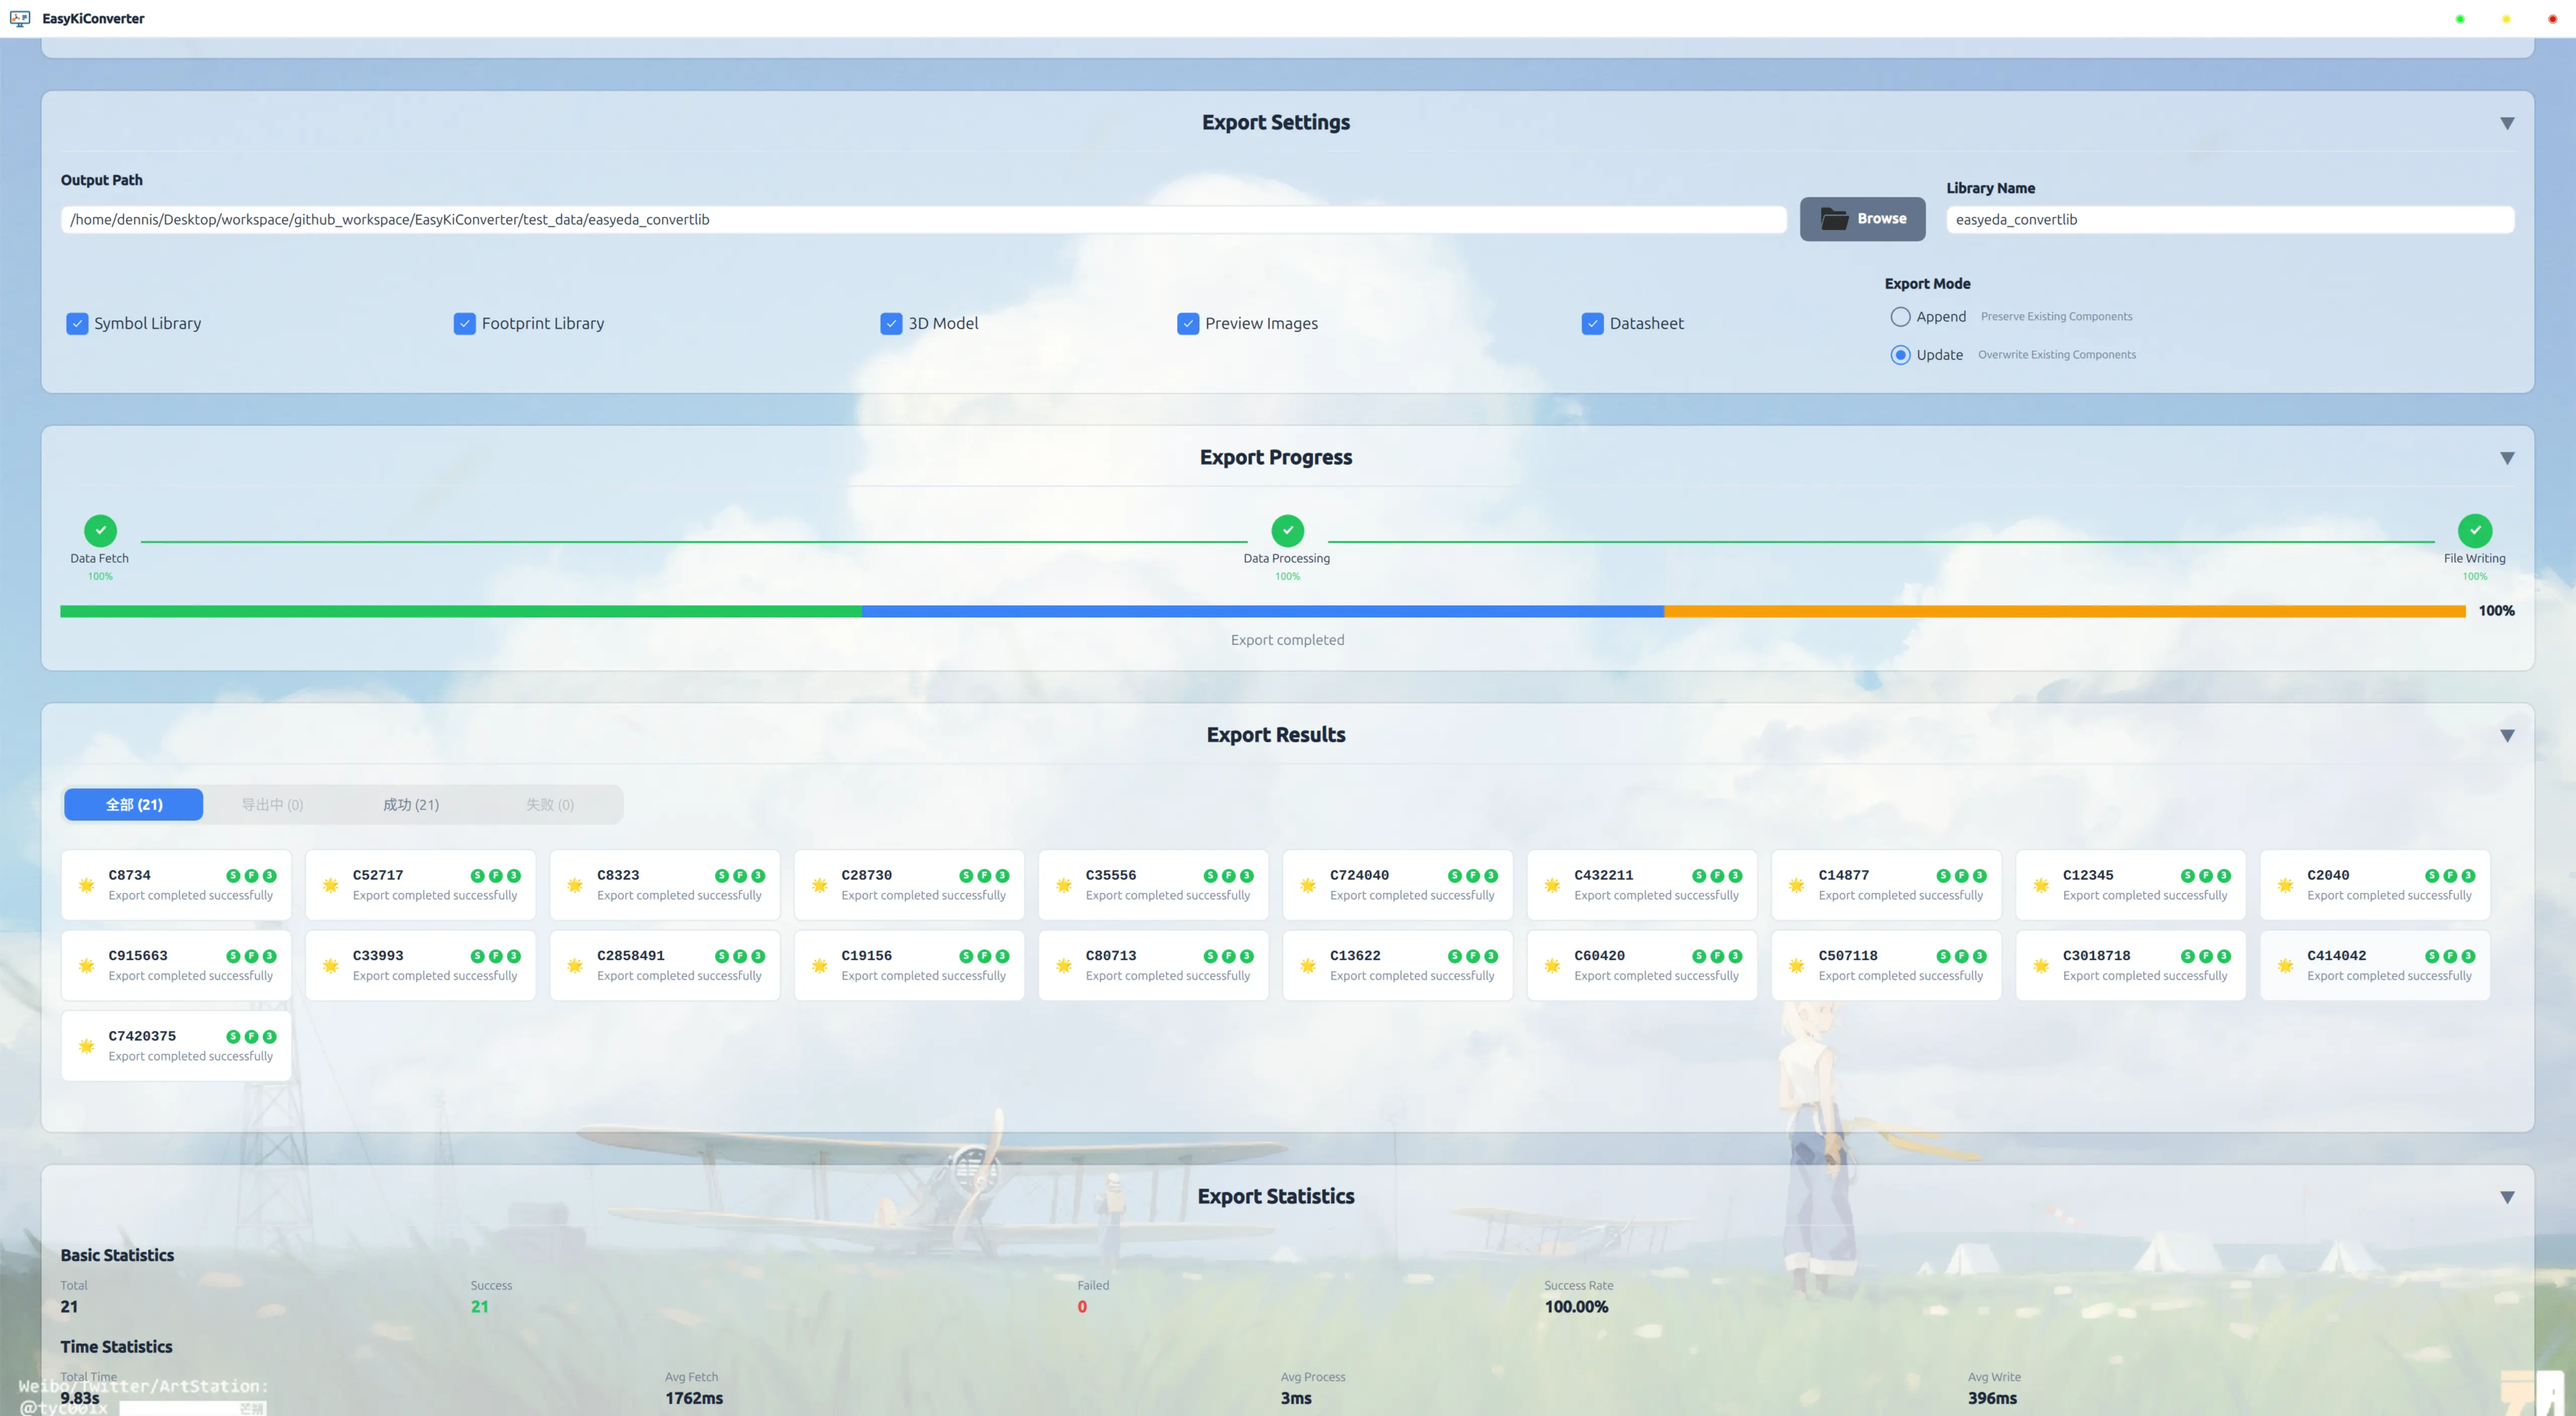
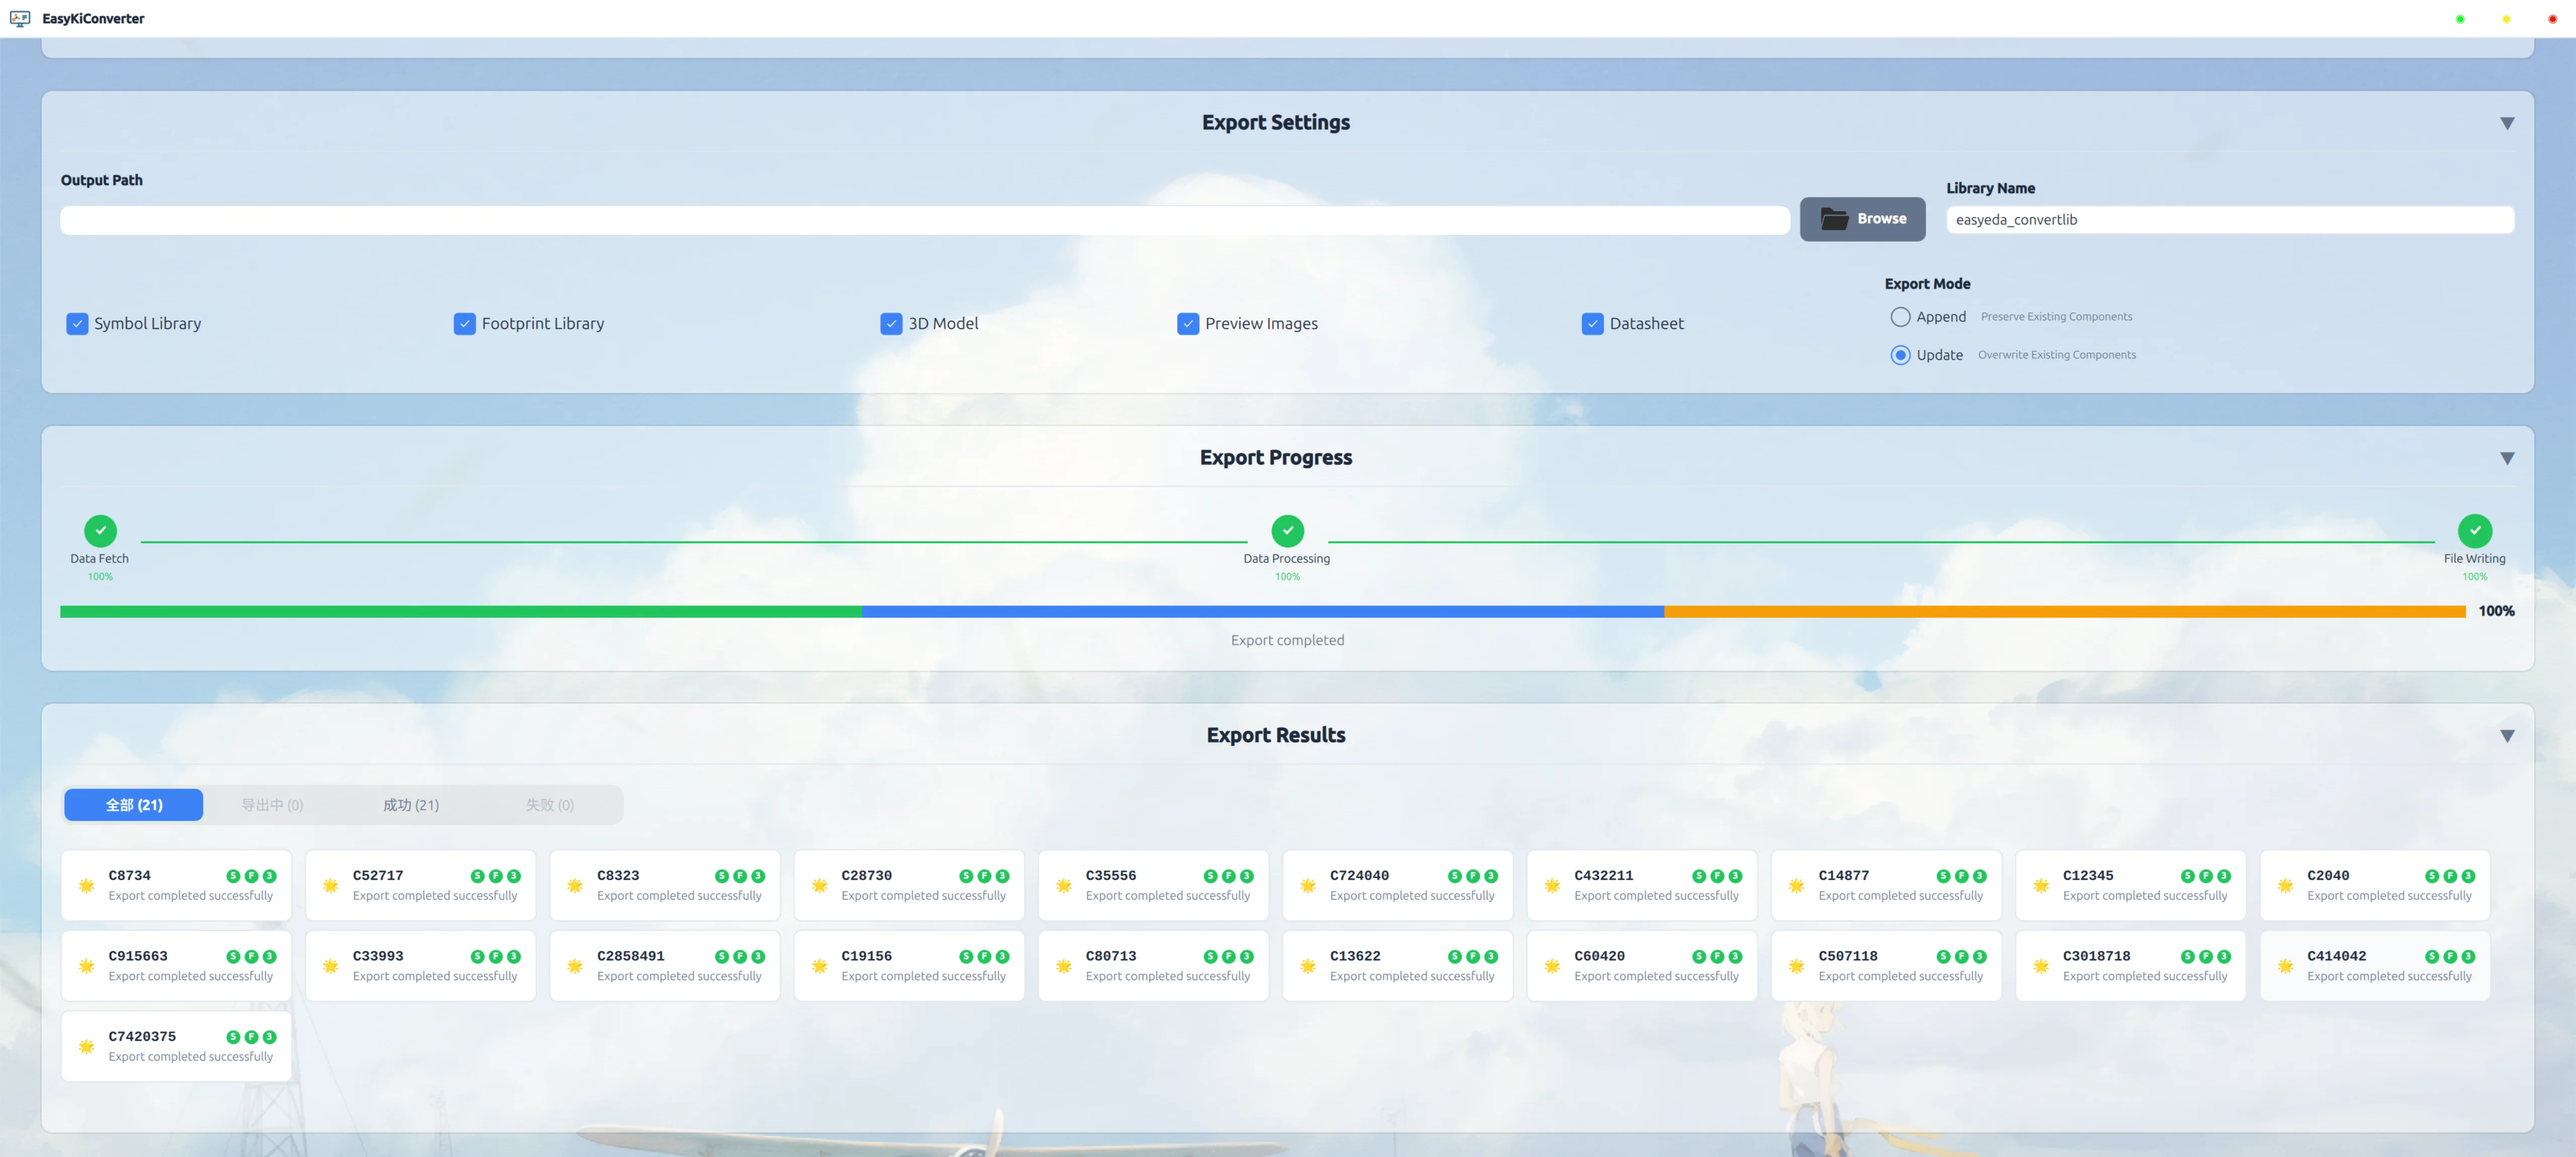
Show distinct homepage conversion stages

diff --git a/tests/site.spec.ts b/tests/site.spec.ts
@@ -67,7 +67,7 @@ test('homepage release CTA stays on one line at 320px in both languages', async 
   }
 });
 
-test('bilingual product screenshots use one public asset and disclose the hidden local path', async ({ page }) => {
+test('bilingual homepage shows distinct sanitized input and export screenshots', async ({ page }) => {
   for (const [path, disclosure] of [
     ['/', '本机输出路径已隐藏'],
     ['/en/', 'Local output path hidden'],
@@ -75,11 +75,15 @@ test('bilingual product screenshots use one public asset and disclose the hidden
     await page.goto(path, { waitUntil: 'domcontentloaded' });
     const heroImage = page.locator('.hero-product-window img');
     const showcaseImage = page.locator('.app-window > img');
-    const source = await heroImage.getAttribute('src');
-    expect(source).toContain('easykiconverter-main-public.webp');
-    await expect(showcaseImage).toHaveAttribute('src', source ?? '');
-    await expect(heroImage).toHaveAttribute('alt', new RegExp(disclosure));
+    const heroSource = await heroImage.getAttribute('src');
+    const showcaseSource = await showcaseImage.getAttribute('src');
+    expect(heroSource).toContain('easykiconverter-main-public.webp');
+    expect(showcaseSource).toContain('easykiconverter-export.webp');
+    expect(showcaseSource).not.toBe(heroSource);
+    await expect(heroImage).toHaveAttribute('alt', new RegExp(disclosure, 'i'));
+    await expect(showcaseImage).toHaveAttribute('alt', new RegExp(disclosure, 'i'));
     await expect(page.locator('.app-window .showcase-source')).toContainText(disclosure);
+    await expect(page.locator('.app-window .showcase-proof-items')).toContainText(/progress|进度/i);
     for (const image of [heroImage, showcaseImage]) {
       const dimensions = await image.evaluate((element) => {
         const image = element as HTMLImageElement;
@@ -1033,20 +1037,20 @@ test('bilingual shared text colors meet WCAG AA on light brand surfaces', async 
   }
 });
 
-test('bilingual workbench captions preserve the same product evidence', async ({ page }) => {
+test('bilingual workbench captions describe export-stage product evidence', async ({ page }) => {
   await page.goto('/', { waitUntil: 'domcontentloaded' });
-  await expect(page.locator('.app-window > img')).toHaveAttribute('alt', /BOM/);
+  await expect(page.locator('.app-window > img')).toHaveAttribute('alt', /导出设置、处理进度和元件结果/);
   await expect(page.locator('.showcase-source')).toHaveText('截取自桌面软件实际运行界面 · 本机输出路径已隐藏');
   await expect(page.locator('.app-window figcaption')).not.toContainText('resources/');
-  await expect(page.locator('.showcase-proof-items')).toContainText('添加元件');
-  await expect(page.locator('.showcase-proof-items')).toContainText('导入 BOM');
+  await expect(page.locator('.showcase-proof-items')).toContainText('设置导出选项');
+  await expect(page.locator('.showcase-proof-items')).toContainText('核对导出结果');
 
   await page.goto('/en/', { waitUntil: 'domcontentloaded' });
-  await expect(page.locator('.app-window > img')).toHaveAttribute('alt', /BOM import and export settings/);
+  await expect(page.locator('.app-window > img')).toHaveAttribute('alt', /export settings, processing progress and component results/);
   await expect(page.locator('.showcase-source')).toHaveText('Captured from the running desktop app · Local output path hidden');
   await expect(page.locator('.app-window figcaption')).not.toContainText('resources/');
-  await expect(page.locator('.showcase-proof-items')).toContainText('Add components');
-  await expect(page.locator('.showcase-proof-items')).toContainText('Import BOM');
+  await expect(page.locator('.showcase-proof-items')).toContainText('Set export options');
+  await expect(page.locator('.showcase-proof-items')).toContainText('Review results');
 });
 
 test('bilingual homepages expose localized navigation destinations', async ({ page }) => {

diff --git a/public/assets/showcase/README_en.md b/public/assets/showcase/README_en.md
@@ -7,13 +7,13 @@
 The pages load the derived WebP files:
 
 - `easykiconverter-main-public.webp`: about 307 KB, used by the homepage, 3D Lab, and social previews; only the local output-path field is cleared, while the rest of the original screenshot is preserved
-- `easykiconverter-export.webp`: about 193 KB, available for future showcase sections
+- `easykiconverter-export.webp`: about 210 KB, used by the homepage workbench showcase; it keeps only export settings, progress, and results, clears the local output path, and crops away the watermarked statistics area below
 
 Regenerate them with:
 
 ```bash
 magick src/assets/source/showcase/easykiconverter-main.png -fill '#f8fbfc' -stroke none -draw 'rectangle 112,1640 3565,1687' -strip -quality 88 public/assets/showcase/easykiconverter-main-public.webp
-magick src/assets/source/showcase/easykiconverter-export.png -strip -quality 84 public/assets/showcase/easykiconverter-export.webp
+magick src/assets/source/showcase/easykiconverter-export.png -fill '#ffffff' -stroke none -draw 'roundrectangle 120,410 3558,466 18,18' -crop 5120x2300+0+0 +repage -strip -quality 84 public/assets/showcase/easykiconverter-export.webp
 ```
 
-The path mask coordinates target the current 5120×2816 source. If the source screenshot changes, relocate and visually inspect the mask to ensure no personal path remains and no other control is obscured. WebP reduces transfer size but does not replace the real screenshot source files.
+The main-window mask coordinates target the current 5120×2816 source; the export image also clears its output-path field and crops away the watermarked statistics area below. If either source screenshot changes, relocate and visually inspect the mask and crop to ensure no local path remains and no other control is obscured. WebP reduces transfer size but does not replace the real screenshot source files.

diff --git a/public/assets/showcase/README.md b/public/assets/showcase/README.md
@@ -7,13 +7,13 @@
 页面实际加载对应的 WebP 派生文件：
 
 - `easykiconverter-main-public.webp`：约 307 KB，用于首页、3D Lab 和社交预览；只清空本机输出路径输入框，保留其他原始截图内容
-- `easykiconverter-export.webp`：约 193 KB，供后续展示扩展使用
+- `easykiconverter-export.webp`：约 210 KB，首页工作台展示使用；只保留导出设置、进度和结果区域，本机输出路径已清空，下方带水印的统计区域已裁去
 
 派生方式：
 
 ```bash
 magick src/assets/source/showcase/easykiconverter-main.png -fill '#f8fbfc' -stroke none -draw 'rectangle 112,1640 3565,1687' -strip -quality 88 public/assets/showcase/easykiconverter-main-public.webp
-magick src/assets/source/showcase/easykiconverter-export.png -strip -quality 84 public/assets/showcase/easykiconverter-export.webp
+magick src/assets/source/showcase/easykiconverter-export.png -fill '#ffffff' -stroke none -draw 'roundrectangle 120,410 3558,466 18,18' -crop 5120x2300+0+0 +repage -strip -quality 84 public/assets/showcase/easykiconverter-export.webp
 ```
 
-主界面去路径坐标适用于当前 5120×2816 源图；更换源截图后须重新定位并目视检查遮罩，确认没有残留个人路径或覆盖其他控件。WebP 只用于减小传输体积，不能替代真实截图源文件。
+主界面遮罩坐标适用于当前 5120×2816 源图；导出图同时清空输出路径输入框，并裁去下方带水印的统计区域。更换任一源截图后须重新定位并目视检查遮罩与裁切，确认没有残留个人路径或覆盖其他控件。WebP 只用于减小传输体积，不能替代真实截图源文件。
